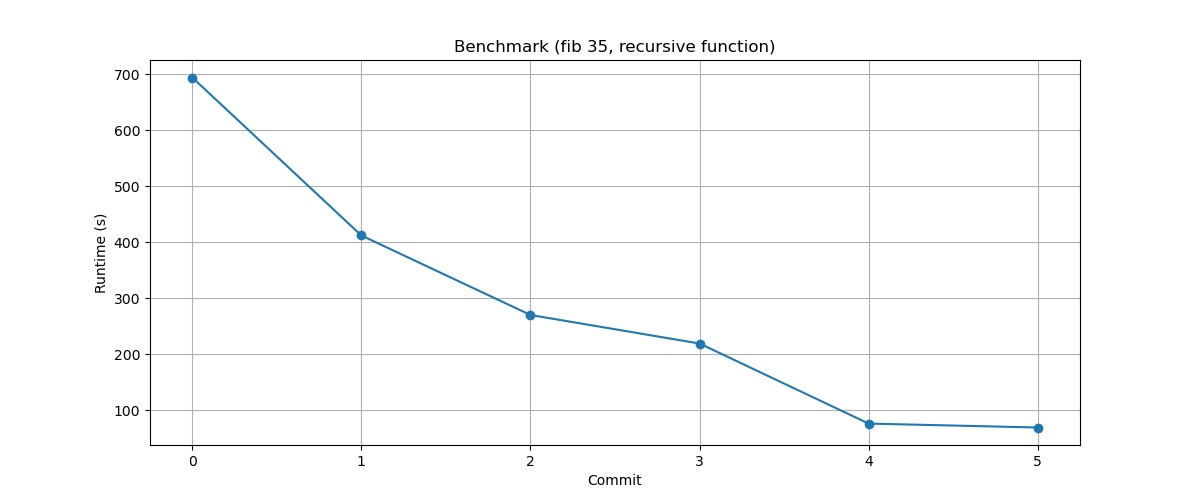
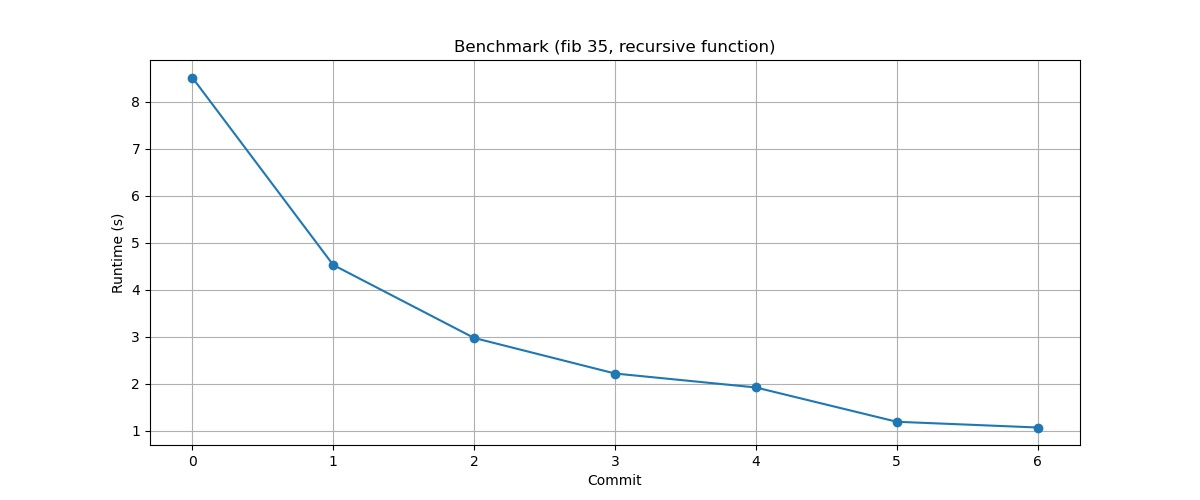
add fib 35 benchmarks in screenshot

diff --git a/README.md b/README.md
@@ -27,3 +27,9 @@ Build & run tests
 ```
 make check
 ```
+
+### Benchmarks
+
+A benchmark to calculate the [35th fibonacci number](https://github.com/dannyvankooten/monkey-c-monkey-do/blob/master/fibonacci.monkey) using a recursive function is run on every commit through [this](https://github.com/dannyvankooten/monkey-c-monkey-do/actions/workflows/c.yml) Github action workflow.
+
+![Fibonacci 35 benchmark](https://raw.githubusercontent.com/dannyvankooten/monkey-c-monkey-do/master/misc/benchmarks.jpg)
